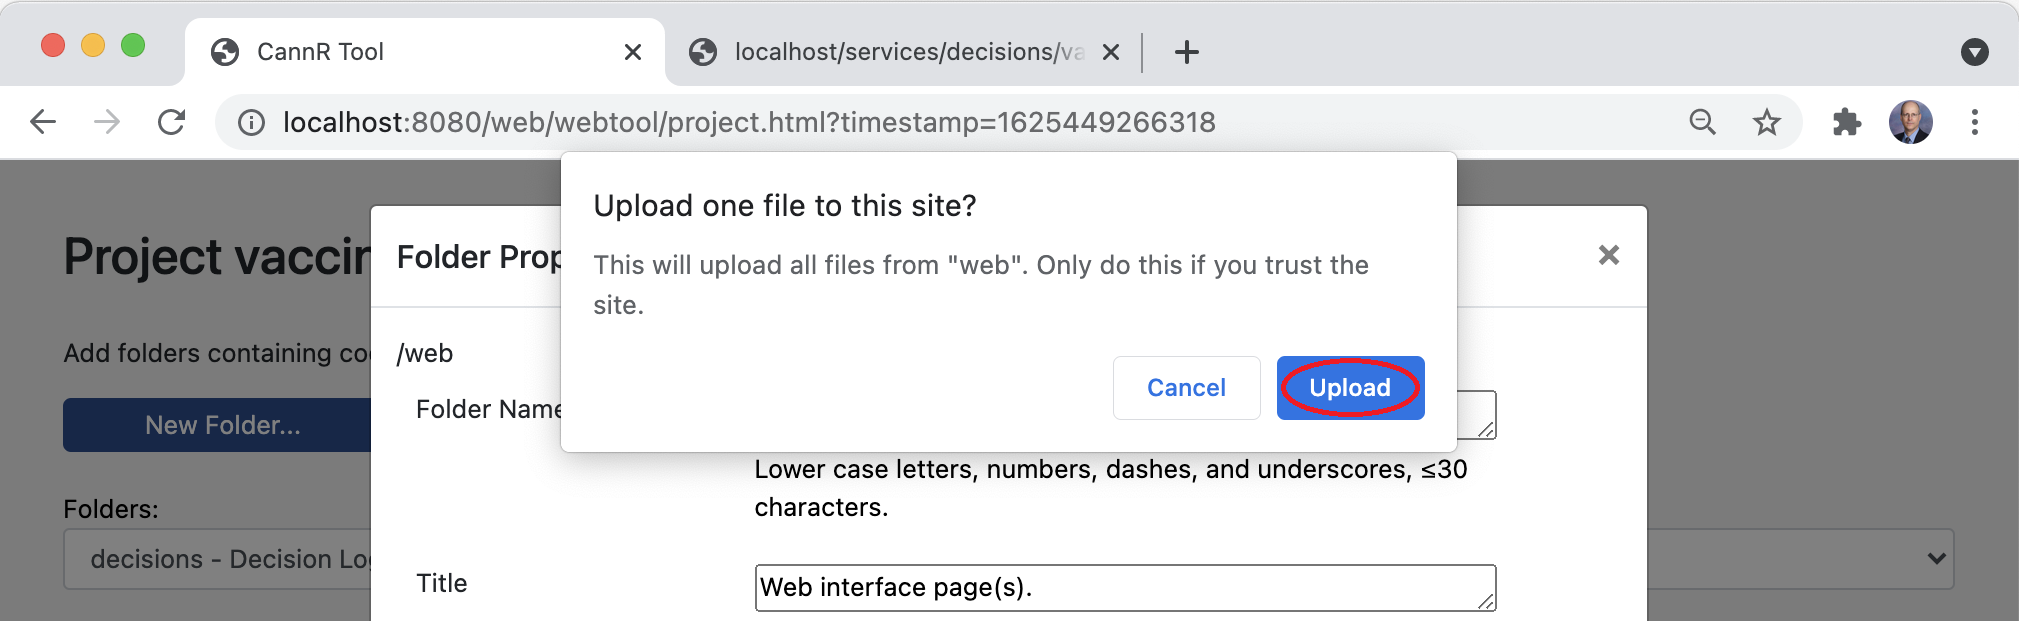
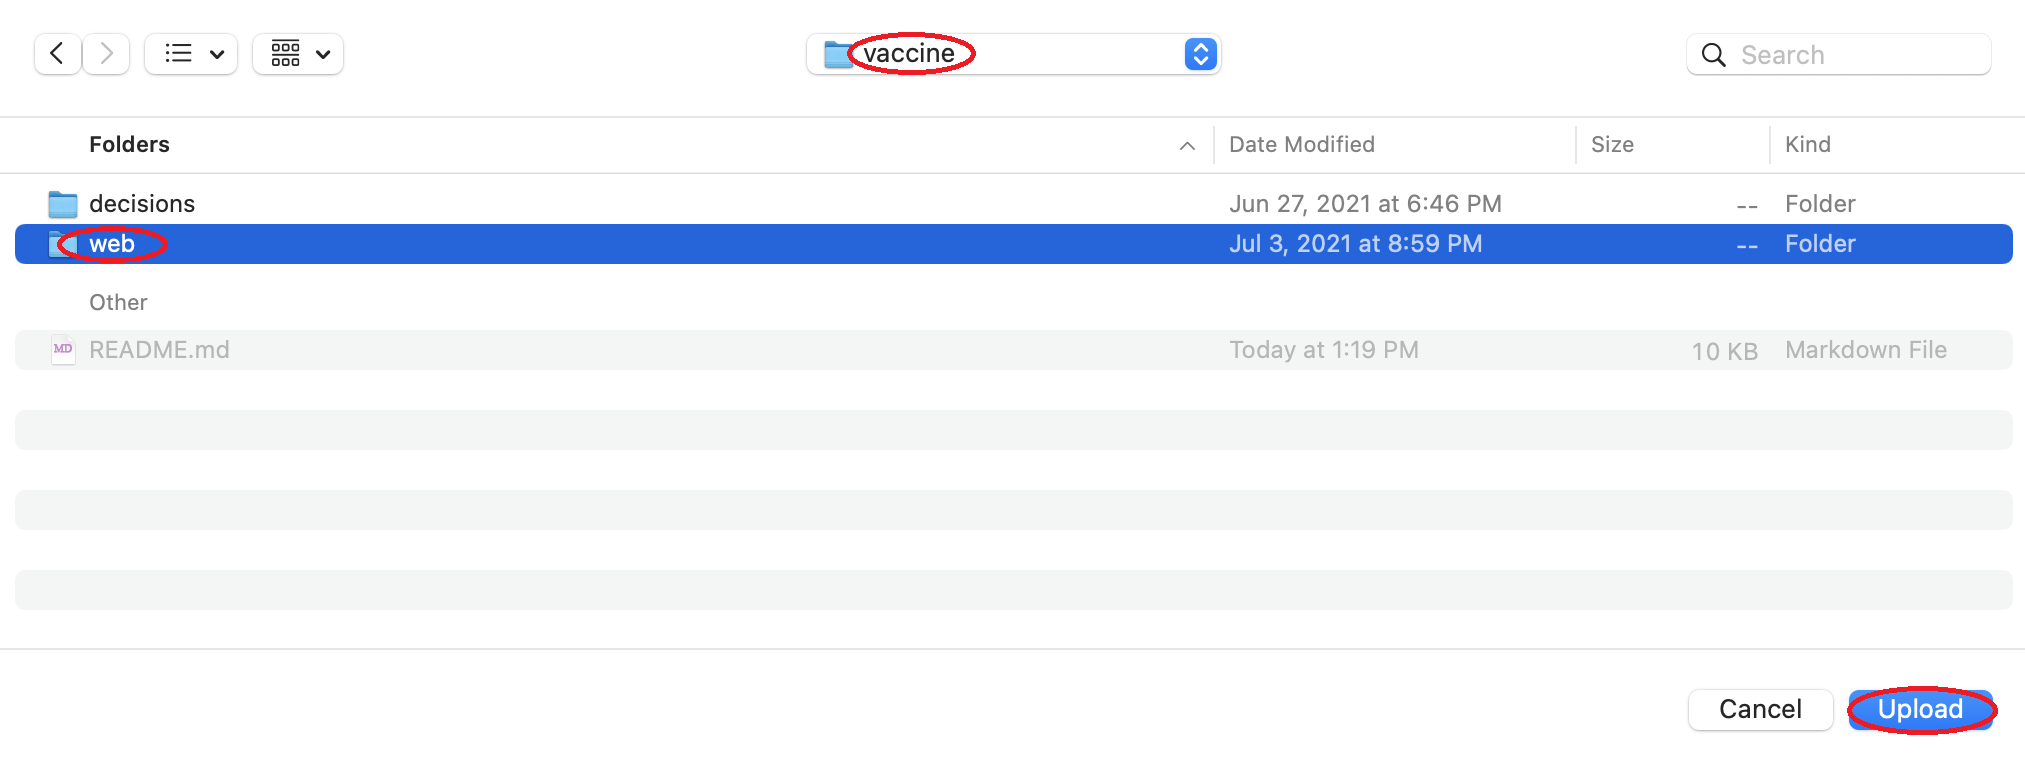
Refine & Added Images to Vaccine Example
And modified README.md.

diff --git a/examples/vaccine/README.md b/examples/vaccine/README.md
@@ -15,11 +15,9 @@ To use the tutorial, you first need to have the [CannR Web Tool](https://github.
 To run the tutorial, you need to download the 
 [example directory](https://github.com/myrtam/CANNR/tree/master/examples/vaccine).
 To download the example directory, you can clone the project, download the zipped project, or just enter
-the URL
+the following URL into [DownGit](https://downgit.github.io):
 
 https://github.com/myrtam/CANNR/tree/master/examples/vaccine
-
-into [DownGit](https://downgit.github.io).
 
 Once you have the example directory copied to your local machine, you can launch the CannR Web tool
 if you have not already done so.
@@ -52,11 +50,13 @@ Also, we will upload the source folder containing the Python code by clicking th
 
 <kbd><img src="https://github.com/myrtam/CANNR/blob/master/examples/images/folder1.png" alt="Folder Properties" width="60%" height="60%"/></kbd>
 
-which takes us to this:
+Navigate to the vaccine folder and select the decisions subfolder:
 
 <kbd><img src="https://github.com/myrtam/CANNR/blob/master/examples/images/upload1.png" alt="Folder Upload"/></kbd>
 
-We also need to specify what type of folder this is, either "code" or "content".
+<kbd><img src="https://github.com/myrtam/CANNR/blob/master/examples/images/upload1a.png" alt="Folder Upload"/></kbd>
+
+We also need to specify what type of folder this is, either code or content.
 A code folder can contain one or more modules, plus other files and subdirectories containing
 data and supporting modules.
 You must specify a language for a code folder, either R or Python.
@@ -82,7 +82,7 @@ Also, we need to specify that this service is used with HTTP GET requests:
 
 <kbd><img src="https://github.com/myrtam/CANNR/blob/master/examples/images/service1.png" alt="Service Properties" width="60%" height="60%"/></kbd>
 
-Now we're ready to build and run a basic container and service:
+Now we're ready to build and run a basic container and service.
 Make sure that both "Build image" and "Start container on localhost" are checked, then
 click Build:
 
@@ -92,7 +92,7 @@ Then copy the URL for the sampleinput service from the Build screen:
 
 <kbd><img src="https://github.com/myrtam/CANNR/blob/master/examples/images/build2.png" alt="Copy URL" width="60%" height="60%"/></kbd>
 
-Open a new browser window or tab and paste the URL into the address bar, but replace "<domain or ip>" with "localhost":
+Open a new browser window or tab and paste the URL into the address bar, but replace &lt;domain or ip&gt; with localhost:
 
 <kbd><img src="https://github.com/myrtam/CANNR/blob/master/examples/images/sampleinput1.png" alt="Sample Input"/></kbd>
 
@@ -125,36 +125,43 @@ This is just the data we will be sending in POST requests to the service.
 By default, the CannR Tool will convert the JSON input into a Python list or dictionary depending on its content,
 and convert the output back into JSON according to the default JSON conversion performed by Python.
 
-Finally, let's create a folder containing the Web page for the app:
+Finally, let's create a folder containing the Web page for the app.
 
 <kbd><img src="https://github.com/myrtam/CANNR/blob/master/examples/images/project2.png" alt="New Folder"/></kbd>
 
+Name the folder web and select Content as the folder type.
+(You don't have to specify a language for a content folder.)
+
 <kbd><img src="https://github.com/myrtam/CANNR/blob/master/examples/images/folder4.png" alt="Web Folder" width="60%" height="60%"/></kbd>
 
-<kbd><img src="https://github.com/myrtam/CANNR/blob/master/examples/images/folder5.png" alt="Directory" width="80%" height="80%"/></kbd>
+Click the Choose File button to specify the source folder, then navigate to the vaccine folder and select the web subfolder:
 
-<kbd><img src="https://github.com/myrtam/CANNR/blob/master/examples/images/upload2.png" alt="Upload" width="80%" height="80%"/></kbd>
+<kbd><img src="https://github.com/myrtam/CANNR/blob/master/examples/images/upload2.png" alt="Directory"/></kbd>
 
-<kbd><img src="https://github.com/myrtam/CANNR/blob/master/examples/images/folder6.png" alt="Save Folder" width="80%" height="80%"/></kbd>
+<kbd><img src="https://github.com/myrtam/CANNR/blob/master/examples/images/upload2a.png" alt="Upload"/></kbd>
+
+Save the new folder and return to the main project screen:
+
+<kbd><img src="https://github.com/myrtam/CANNR/blob/master/examples/images/folder6.png" alt="Save Folder" width="60%" height="60%"/></kbd>
 
 Now we can build the container, including the Web page:
 
-<kbd><img src="https://github.com/myrtam/CANNR/blob/master/examples/images/project3.png" alt="Build Project" width="80%" height="80%"/></kbd>
+<kbd><img src="https://github.com/myrtam/CANNR/blob/master/examples/images/project3.png" alt="Build Project"/></kbd>
 
-<kbd><img src="https://github.com/myrtam/CANNR/blob/master/examples/images/build5.png" alt="Build Screen" width="80%" height="80%"/></kbd>
+<kbd><img src="https://github.com/myrtam/CANNR/blob/master/examples/images/build5.png" alt="Build Screen" width="60%" height="80%"/></kbd>
 
-<kbd><img src="https://github.com/myrtam/CANNR/blob/master/examples/images/build6.png" alt="Build Screen" width="80%" height="80%"/></kbd>
+<kbd><img src="https://github.com/myrtam/CANNR/blob/master/examples/images/build6.png" alt="Build Screen" width="60%" height="60%"/></kbd>
 
 Now that the full container is running, we can test the vaxdecision service, which is the main microservice exposed by the container.
 To do this, we can use the [Postman API Client](https://www.postman.com/product/api-client/),
 which can be used to send REST service requests and check the responses.
 If you use Postman, create a new POST request, add the URL for the vaxdecision service from the Build screen
-but with <host or ip> replaced with localhost, and paste the sample input from the sampleinput service
+but with &lt;domain or ip&gt; replaced by localhost, and paste the sample input from the sampleinput service
 into the request body:
 
-<kbd><img src="https://github.com/myrtam/CANNR/blob/master/examples/images/postman1.png" alt="Postman" width="80%" height="80%"/></kbd>
+<kbd><img src="https://github.com/myrtam/CANNR/blob/master/examples/images/postman1.png" alt="Postman Request"/></kbd>
 
-<kbd><img src="https://github.com/myrtam/CANNR/blob/master/examples/images/postman2.png" alt="Postman" width="80%" height="80%"/></kbd>
+<kbd><img src="https://github.com/myrtam/CANNR/blob/master/examples/images/postman2.png" alt="Postman Response"/></kbd>
 
 We can now see that the sample input produces a <b>true</b> response from the vaxdecision service.
 Next, we can try running the app using the URL for the web folder.
@@ -162,16 +169,16 @@ Note that because the page for the app is named index.html, we don't need to inc
 in the URL.
 For any other page, we would need to add the page to the end of the URL.
 
-<kbd><img src="https://github.com/myrtam/CANNR/blob/master/examples/images/vaxapp1.png" alt="Vaccine App" width="80%" height="80%"/></kbd>
+<kbd><img src="https://github.com/myrtam/CANNR/blob/master/examples/images/vaxapp1.png" alt="Vaccine App Title" width="60%" height="60%"/></kbd>
 
-<kbd><img src="https://github.com/myrtam/CANNR/blob/master/examples/images/vaxapp2.png" alt="Vaccine App Input" width="80%" height="80%"/></kbd>
+<kbd><img src="https://github.com/myrtam/CANNR/blob/master/examples/images/vaxapp2.png" alt="Vaccine App Input" width="60%" height="60%"/></kbd>
 
-<kbd><img src="https://github.com/myrtam/CANNR/blob/master/examples/images/vaxapp3.png" alt="Vaccine App Response" width="80%" height="80%"/></kbd>
+<kbd><img src="https://github.com/myrtam/CANNR/blob/master/examples/images/vaxapp3.png" alt="Vaccine App Response" width="60%" height="60%"/></kbd>
 
 Finally, we can stop the app container from the Build screen as before, exit the build screen, exit the project,
 and shut down the CannR Web Tool:
 
-<kbd><img src="https://github.com/myrtam/CANNR/blob/master/examples/images/shutdown1.png" alt="Shutting Down" width="80%" height="80%"/></kbd>
+<kbd><img src="https://github.com/myrtam/CANNR/blob/master/examples/images/shutdown1.png" alt="Shutting Down" width="50%" height="50%"/></kbd>
 
 
 
